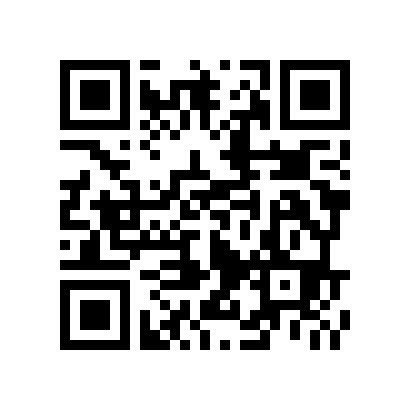
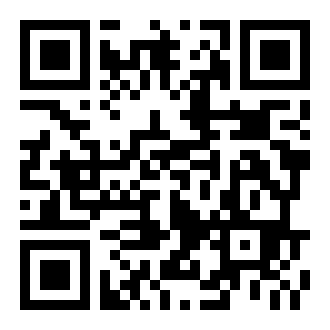
Camera stream over TCP (no 1080p smudging); social QR codes fill their cards
- At 1080p the Jetson dropped RTSP/UDP packets (3,844 "receive buffer errors"; the kernel
  caps the socket buffer at 208 KB), smudging the picture until the next keyframe. All
  Jetson configs now use rtspsrc protocols=tcp: no lost packets, 24.9 fps at 1080p
- Social QR images: OpenCV's encoder already adds a 2-module border and the white card
  ~2.5 more; the extra 4 modules made the codes small on a big white square. Regenerated
  for both projects; verified they decode from the rendered start screens

diff --git a/out-of-frame/tools/make_qr.py b/out-of-frame/tools/make_qr.py
@@ -7,11 +7,12 @@ import cv2
 from outofframe.config import DisplayCfg
 
 MODULE_PX = 10
-QUIET = 4  # white modules around the code, needed by phone scanners
+# OpenCV's encoder already leaves 2 white modules around the code; the white card the screens
+# draw around it adds ~2.5 more, which makes the 4-module quiet zone phone scanners need.
+# (Adding more here only made the codes look small on a big white square.)
 
 for s in DisplayCfg().socials:
     q = cv2.QRCodeEncoder.create().encode(s["url"])
-    q = cv2.copyMakeBorder(q, QUIET, QUIET, QUIET, QUIET, cv2.BORDER_CONSTANT, value=255)
     q = cv2.resize(q, None, fx=MODULE_PX, fy=MODULE_PX, interpolation=cv2.INTER_NEAREST)
     cv2.imwrite(s["qr"], q)
     print(s["qr"], q.shape)
